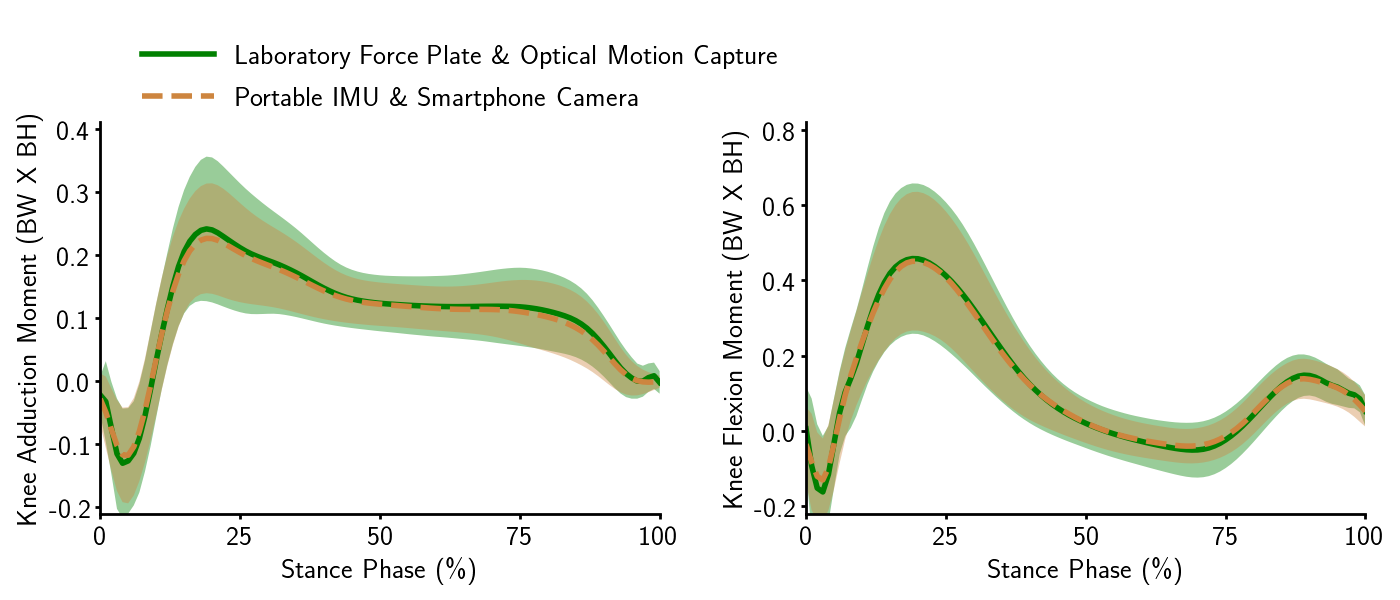
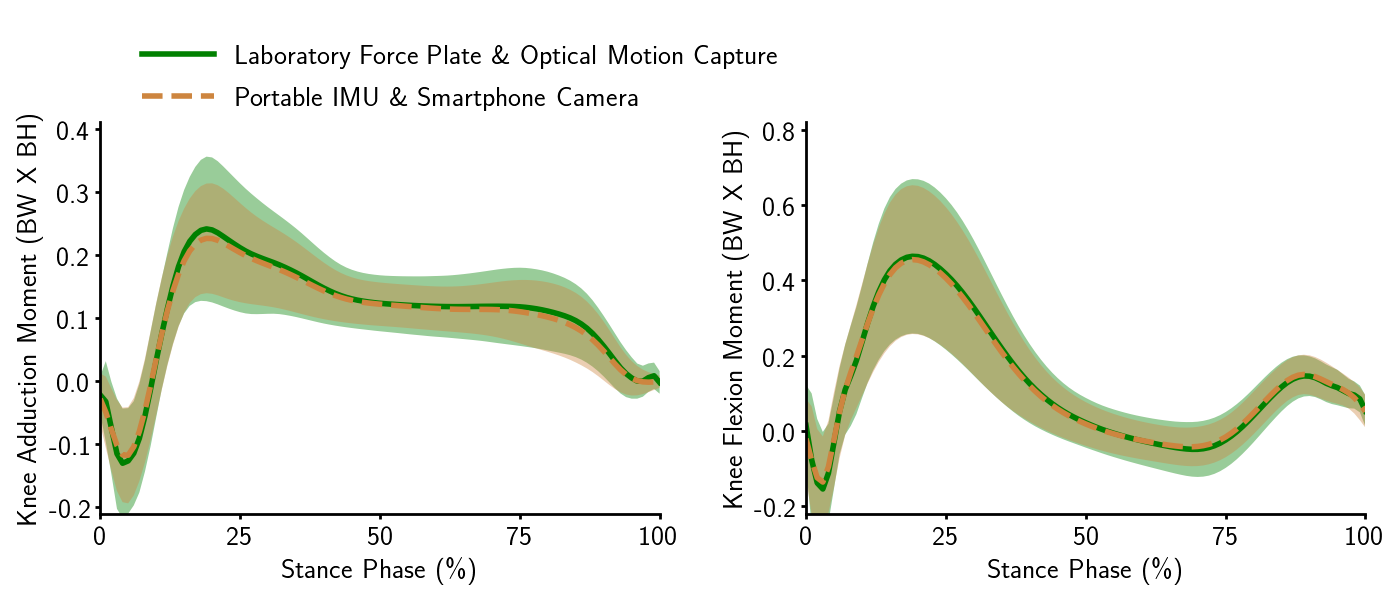
updated figures

diff --git a/figures/KAM_analysis_of_one_subject.py b/figures/KAM_analysis_of_one_subject.py
@@ -1,11 +1,9 @@
-import os
+""" Some subjects might be interested in their KAM values compared with the group average """
 import h5py
 import json
 from figures.PaperFigures import get_mean_std, format_axis
-from const import SUBJECTS
 import numpy as np
 from const import LINE_WIDTH, FONT_DICT, FONT_SIZE, FONT_DICT, FONT_SIZE, FONT_DICT_LARGE
-from const import LINE_WIDTH_THICK, FONT_SIZE_LARGE, FORCE_PHASE
 import matplotlib.gridspec as gridspec
 import matplotlib.pyplot as plt
 from matplotlib import rc
@@ -16,10 +14,10 @@ def draw_f3(mean_std_kam, mean_std_kfm):
         arr_true_mean, arr_true_std, arr_pred_mean, arr_pred_std = mean_std['true_mean'], mean_std['true_std'], \
                                                                    mean_std['pred_mean'], mean_std['pred_std']
         axis_x = range(arr_true_mean.shape[0])
-        ax.plot(axis_x, arr_true_mean, color='green', label='Laboratory Force Plate \& Optical Motion Capture', linewidth=LINE_WIDTH*2)
+        ax.plot(axis_x, arr_true_mean, color='green', label='Average', linewidth=LINE_WIDTH*2)
         ax.fill_between(axis_x, arr_true_mean - arr_true_std, arr_true_mean + arr_true_std,
                         facecolor='green', alpha=0.4)
-        ax.plot(axis_x, arr_pred_mean, '--', color='peru', label='Portable IMU \& Smartphone Camera', linewidth=LINE_WIDTH*2)
+        ax.plot(axis_x, arr_pred_mean, '--', color='peru', label='Yours', linewidth=LINE_WIDTH*2)
         ax.fill_between(axis_x, arr_pred_mean - arr_pred_std, arr_pred_mean + arr_pred_std,
                         facecolor='peru', alpha=0.4)
         ax.tick_params(labelsize=FONT_DICT['fontsize'])
@@ -53,21 +51,28 @@ def draw_f3(mean_std_kam, mean_std_kfm):
     draw_subplot(fig.add_subplot(gs[1, 1]), mean_std_kfm)
     subplot_2_style()
     plt.tight_layout(rect=[0., 0., 1, 1], w_pad=3)
-    plt.legend(handlelength=2.6, bbox_to_anchor=(0., 1.27), ncol=1, fontsize=FONT_SIZE,
+    plt.legend(handlelength=2.6, ncol=2, fontsize=FONT_SIZE,
                frameon=False)
-    plt.savefig('exports/f3.png')
 
 
 if __name__ == "__main__":
+    target_subject = 's019_chenhongyuan'
     with h5py.File('results/0307KAM/8IMU_2camera/results.h5', 'r') as hf:
         kam_data_all_sub = {subject: subject_data[:] for subject, subject_data in hf.items()}
+        kam_data_target_sub = {target_subject: kam_data_all_sub[target_subject]}
         kam_data_fields = json.loads(hf.attrs['columns'])
     with h5py.File('results/0307KFM/8IMU_2camera/results.h5', 'r') as hf:
         kfm_data_all_sub = {subject: subject_data[:] for subject, subject_data in hf.items()}
+        kfm_data_target_sub = {target_subject: kfm_data_all_sub[target_subject]}
         kfm_data_fields = json.loads(hf.attrs['columns'])
 
-    kam_mean_std = get_mean_std(np.concatenate(list(kam_data_all_sub.values()), axis=0), kam_data_fields, 'main_output')
-    kfm_mean_std = get_mean_std(np.concatenate(list(kfm_data_all_sub.values()), axis=0), kfm_data_fields, 'main_output')
-    kfm_mean_std['true_mean'], kfm_mean_std['pred_mean'] = -kfm_mean_std['true_mean'], -kfm_mean_std['pred_mean']
-    draw_f3(kam_mean_std, kfm_mean_std)
+    kam_all_mean_std = get_mean_std(np.concatenate(list(kam_data_all_sub.values()), axis=0), kam_data_fields, 'main_output')
+    kfm_all_mean_std = get_mean_std(np.concatenate(list(kfm_data_all_sub.values()), axis=0), kfm_data_fields, 'main_output')
+    kfm_all_mean_std['true_mean'], kfm_all_mean_std['pred_mean'] = -kfm_all_mean_std['true_mean'], -kfm_all_mean_std['pred_mean']
+
+    kam_one_mean_std = get_mean_std(np.concatenate(list(kam_data_target_sub.values()), axis=0), kam_data_fields, 'main_output')
+    kfm_one_mean_std = get_mean_std(np.concatenate(list(kfm_data_target_sub.values()), axis=0), kfm_data_fields, 'main_output')
+    kfm_one_mean_std['true_mean'], kfm_one_mean_std['pred_mean'] = -kfm_one_mean_std['true_mean'], -kfm_one_mean_std['pred_mean']
+    draw_f3({'true_mean': kam_all_mean_std['true_mean'], 'true_std': kam_all_mean_std['true_std'], 'pred_mean': kam_one_mean_std['true_mean'], 'pred_std': kam_one_mean_std['true_std']},
+            {'true_mean': kfm_all_mean_std['true_mean'], 'true_std': kfm_all_mean_std['true_std'], 'pred_mean': kfm_one_mean_std['true_mean'], 'pred_std': kfm_one_mean_std['true_std']})
     plt.show()

diff --git a/figures/PaperFigures.py b/figures/PaperFigures.py
@@ -51,20 +51,6 @@ def get_data(file_path, specific_trial=None, subjects=SUBJECTS):
     return _data_all, _data_fields
 
 
-def get_fpa(_data, _data_fields):
-    def get_FPA_all():
-        toe_col_loc = _data_fields.index('FM2_x')
-        toe = _data[:, 0, toe_col_loc:toe_col_loc+3]
-        x=1
-    get_FPA_all()
-        # forward_vector = toe - heel
-        # if side == 'l':
-        #     FPAs = - 180 / np.pi * np.arctan2(forward_vector[:, 0], forward_vector[:, 1])
-        # else:
-        #     FPAs = 180 / np.pi * np.arctan2(forward_vector[:, 0], forward_vector[:, 1])
-        # return FPAs
-
-
 def get_score(arr_true, arr_pred, w):
     assert(len(arr_true.shape) == 1 and arr_true.shape == arr_pred.shape == w.shape)
     locs = np.where(w.ravel())[0]
